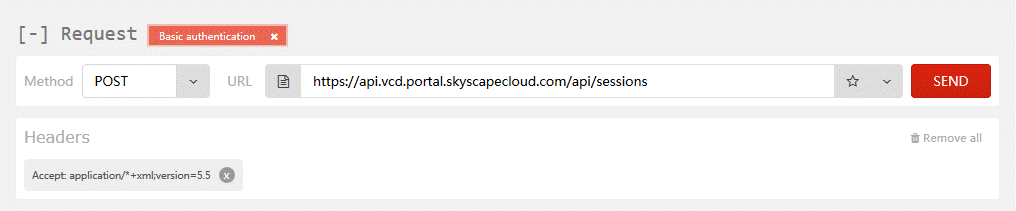
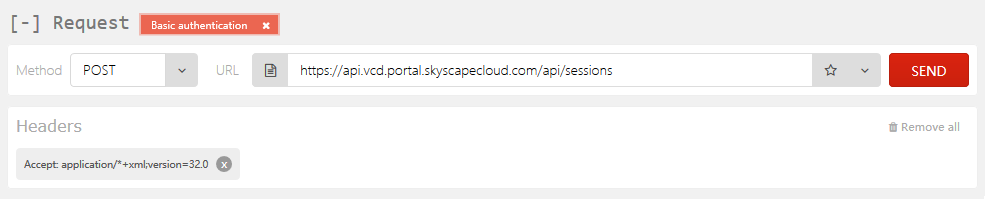
commit - not yet finished

diff --git a/docs/articles/vmware/vmw-ref-vcd-97.html b/docs/articles/vmware/vmw-ref-vcd-97.html
@@ -1,0 +1,176 @@
+<!DOCTYPE html>
+<!--[if IE]><![endif]-->
+<html>
+  
+  <head>
+    <meta charset="utf-8">
+    <meta http-equiv="X-UA-Compatible" content="IE=edge,chrome=1">
+    <title>Preparing for vCloud Director 9.7 upgrade | UKCloud Ltd | UKCloud Knowledge Centre </title>
+    <meta name="viewport" content="width=device-width">
+    <meta name="title" content="Preparing for vCloud Director 9.7 upgrade | UKCloud Ltd | UKCloud Knowledge Centre ">
+    <meta name="generator" content="docfx 2.45.0.0">
+    
+    <link rel="shortcut icon" href="../../favicon.ico">
+    <link rel="stylesheet" href="../../styles/docfx.vendor.css">
+    <link rel="stylesheet" href="../../styles/docfx.css">
+    <link rel="stylesheet" href="../../styles/main.css">
+    <meta property="docfx:navrel" content="../../toc.html">
+    <meta property="docfx:tocrel" content="toc.html">
+    
+    <meta property="docfx:rel" content="../../">
+    
+  </head>
+  <body data-spy="scroll" data-target="#affix" data-offset="120">
+    <div id="wrapper">
+      <header>
+        
+        <nav id="autocollapse" class="navbar navbar-inverse ng-scope" role="navigation">
+          <div class="container-fluid">
+            <div class="navbar-margin-left">
+              <div class="navbar-header">
+                <button type="button" class="navbar-toggle" data-toggle="collapse" data-target="#navbar">
+                  <span class="sr-only">Toggle navigation</span>
+                  <span class="icon-bar"></span>
+                  <span class="icon-bar"></span>
+                  <span class="icon-bar"></span>
+                </button>
+                
+                <a class="navbar-brand" href="../../index.html">
+                  <img id="logo" class="svg" src="../../styles/assets/logo.png" srcset="../../styles/assets/logo@2x.png 2x" width="300" height="49" alt="">
+                </a>
+              </div>
+              <div class="collapse navbar-collapse" id="navbar">
+                <form class="navbar-form navbar-right" role="search" id="search">
+                  <div class="form-group">
+                    <input type="text" class="form-control" id="search-query" placeholder="Search" autocomplete="off">
+                  </div>
+                </form>
+              </div>
+            </div>
+          </div>
+        </nav>
+        
+        <div class="navbar-borderless subnav navbar navbar-default">
+          <div class="navbar-right subnav-margin-right">
+              <div class="contribution">
+                <ul class="nav">
+                  <li>
+                    <a href="https://github.com/UKCloud/documentation/blob/master/articles/vmware/vmw-ref-vcd-97.md/#L1" class="contribution-link">Improve this Doc</a>
+                  </li>
+                </ul>
+              </div>
+          </div>
+          <div class="hide-when-search subnav-margin-left" id="breadcrumb">
+            <ul class="breadcrumb">
+              <li></li>
+            </ul>
+          </div>
+        </div>
+      </header>
+      <div class="container body-content">
+        
+        <div id="search-results">
+          <div class="search-list"></div>
+          <div class="sr-items">
+            <p><i class="glyphicon glyphicon-refresh index-loading"></i></p>
+          </div>
+          <ul id="pagination"></ul>
+        </div>
+      </div>
+      <div role="main" class="container-fluid body-content hide-when-search">
+        
+        <div class="sidenav hide-when-search">
+          <a class="btn toc-toggle collapse" data-toggle="collapse" href="#sidetoggle" aria-expanded="false" aria-controls="sidetoggle">Show / Hide Table of Contents</a>
+          <div class="sidetoggle collapse" id="sidetoggle">
+            <div id="sidetoc"></div>
+          </div>
+        </div>
+        <div class="article row grid-right">
+          <div class="container-fluid">
+            <div class="row">
+              <div class="col-lg-10">
+                <article class="content wrap" id="_content" data-uid="">
+                  
+<h1 id="preparing-for-vcloud-director-97-upgrade">Preparing for vCloud Director 9.7 upgrade</h1>
+
+<h2 id="overview">Overview</h2>
+<p>Ahead of our upgrade to vCloud Director 9.7, there are some key points for you to consider as preparation for the upgrade.</p>
+<h2 id="upgrade-to-advanced-edge-gateways">Upgrade to advanced edge gateways</h2>
+<p>vCloud Director 9.7 supports only advanced edge gateways. In preparation for the upgrade, before 31 May 2019 you must convert any legacy standard edge gateways to advanced edge gateways. For more information, see <a href="https://docs.ukcloud.com/articles/vmware/vmw-how-convert-edge.md"><em>How to convert your edge to an advanced gateway</em></a>.</p>
+<div class="IMPORTANT">
+<h5>Important</h5>
+<p>The conversion process will cause the gateway to redeploy. Therefore, you should schedule the conversion during an outage window.</p>
+</div>
+<p>After 31 May 2019, UKCloud will convert any remaining standard edge gateways at our convenience.</p>
+<h2 id="sandbox-for-testing-vcloud-api">Sandbox for testing vCloud API</h2>
+<p>UKCloud provides sandboxes to enable you to test the next versions of the vCloud API so that you can prepare for vCloud Director upgrades. Our latest sandbox (<a href="https://vcd.latest.ukcloud.com/cloud/">https://vcd.latest.ukcloud.com/cloud/</a>) has been upgraded to vCloud Director 9.7. If you already have an account on a previous sandbox, you can continue to use this account in the 9.7 sandbox. If you haven't previously used one of our vCloud sandboxes, raise a Service Request via <a href="https://portal.skyscapecloud.com/support/ivanti">My Calls</a> on the UKCloud Portal to gain access.</p>
+<h2 id="changes-to-apis">Changes to APIs</h2>
+<p>vCloud Director 9.7 supports vCloud API version 32.0. For information the changes to the vCloud API for this version, see <a href="https://code.vmware.com/apis/553/doc/diff/index.html"><em>vCloud API Schema Differences</em></a>.</p>
+<p>vCloud Director 9.7 is the last release of vCloud Director to support vCloud API 20. The 20 version of the API is deprecated in this release and will not be supported in future releases.</p>
+<h2 id="powercli-supported-versions">PowerCLI supported versions</h2>
+<p>If you're using PowerCLI to interact with our vCloud Director instances, the minimum supported version is 11.0.0.</p>
+<h2 id="vcloud-director-97-new-features">vCloud Director 9.7 new features</h2>
+<p>We're currently evaluating the new features provided with vCloud Director 9.7 to determine which functionality is appropriate to make available on our platform. We'll provide more details of the new features that we plan to enable as this evaluation progresses.</p>
+<h2 id="feedback">Feedback</h2>
+<p>If you find an issue with this article, click <strong>Improve this Doc</strong> to suggest a change. If you have an idea for how we could improve any of our services, visit the <a href="https://community.ukcloud.com/ideas">Ideas</a> section of the <a href="https://community.ukcloud.com">UKCloud Community</a>.</p>
+
+
+                  <div class="row">
+                  </div>
+                </article>
+              </div>
+              
+              <div class="hidden-sm col-md-2" role="complementary">
+                <div class="sideaffix">
+                  <nav class="bs-docs-sidebar hidden-print hidden-xs hidden-sm affix" id="affix">
+                  <!-- <p><a class="back-to-top" href="#top">Back to top</a><p> -->
+                  </nav>
+                </div>
+              </div>
+            </div>
+          </div>
+        </div>
+      </div>
+      
+      <footer>
+        <div class="grad-bottom"></div>
+        <div class="footer">
+          <div class="container">
+            <span class="pull-right text-right">
+              Generated by <strong>DocFX</strong><br>
+              <a href="#top">Back to top</a>
+            </span>
+            <span>&copy <a href="http://ukcloud.com">UKCloud Ltd</a>, 2019. All Rights Reserved.<br><a href="https://ukcloud.com/legal">Privacy Policy. </a><a href="https://ukcloud.com/terms-and-conditions">Terms of Use. </a><a href="http://docs.ukcloud.com/articles/other/other-how-contribute-knowledge.html">Contribute. </a></span>
+          </div>
+        </div>
+      </footer>
+      
+      <div id="cookie-cta" style="display: none;" aria-hidden="true">
+        <div class="cookie-cta-inner container">
+          <div class="cookie-cta-text">
+            <p>
+              <strong>UKCloud Knowledge Centre</strong> uses cookies to ensure that we give you the best experience on our website. If you continue we assume that you consent to receive all cookies on this website.
+            </p>
+          </div>
+      
+          <div class="cookie-cta-action">
+            <button class="cookie-cta-close button button--small">Accept</button>
+          </div>
+        </div>
+      </div>    </div>
+    
+    <script type="text/javascript" src="../../styles/docfx.vendor.js"></script>
+    <script type="text/javascript" src="../../styles/docfx.js"></script>
+    <script type="text/javascript" src="../../styles/main.js"></script>
+    <script type="text/javascript" src="../../styles/highlight.js"></script>
+    
+    <!-- Global site tag (gtag.js) - Google Analytics -->
+    <script async="" src="https://www.googletagmanager.com/gtag/js?id=UA-57433193-6"></script>
+    <script>
+      window.dataLayer = window.dataLayer || [];
+      function gtag(){dataLayer.push(arguments);}
+      gtag('js', new Date());
+    
+      gtag('config', 'UA-57433193-6');
+    </script>  </body>
+</html>

diff --git a/articles/vmware/vmw-how-interact-vcd-api-powershell.md b/articles/vmware/vmw-how-interact-vcd-api-powershell.md
@@ -20,14 +20,9 @@ toc_mdlink: vmw-how-interact-vcd-api-powershell.md
 ## Pre Work
 
 ### Useful Links
+You can find the sched reference for version 32.0 of the vCloud API here:
 
-You can look up all of the different object types here:
-
-http://pubs.vmware.com/vcd-55/index.jsp#doc/index.html
-
-### Examples of all typed queries
-
-http://pubs.vmware.com/vcloud-api-1-5/wwhelp/wwhimpl/js/html/wwhelp.htm#href=api_prog/GUID-43DFF30E-391F-42DC-87B3-5923ABCEB366.html
+https://code.vmware.com/apis/553/vcloud
 
 ### PowerShell
 
@@ -39,9 +34,9 @@ If `PSVersion` is less than 3.0, you'll need to upgrade. The v4 package is avail
 
 ### Python
 
-You'll need to install Python 2.7: https://www.python.org/ftp/python/2.7.10/python-2.7.10.msi
+You'll need to install Python 2.7: https://www.python.org/downloads/release/python-2716/
 
-You'll then need to install the package: http://www.python-requests.org/en/latest/user/install/#install
+You'll then need to install the package: https://pypi.org/project/requests/
 
 ### Getting your credentials
 
@@ -57,13 +52,13 @@ For more detailed instructions, see [*How to access vCloud Director through the 
 
 ### PowerShell
 
-1. Copy and paste the following script into your PowerShell session:
+1. Copy and paste the following script into a .psm1 file:
 
-       $Global:SkyscapeURL = "https://api.vcd.portal.skyscapecloud.com/api"
+       $Global:SkyscapeURL = "https://<API URL from portal>/api"
 
        $Global:Authorization = ""
 
-       $Global:Accept = "application/*+xml;version=5.1"
+       $Global:Accept = "application/*+xml;version=32.0"
 
        $Global:xvCloudAuthorization = ""
 
@@ -101,15 +96,20 @@ For more detailed instructions, see [*How to access vCloud Director through the 
 
     You will now have two new functions available to you; `New-vCloudLogin` and `Get-vCloudRequest`.
 
-2. To log in enter:
+2. In a new Powershell window, run the below to import the file with the below
+
+        Import-Module <Path to .psm1 file>
+
+
+3. To log in enter:
 
        New-vCloudLogin –Username “myuser@org” –Password “yourportalpassword”
 
-3. Use the username that you copied from the Portal earlier and your Portal password. This will login to vCloud and add your authorisation header to a global variable for use in the next function:
+4. Use the username that you copied from the Portal earlier and your Portal password. This will login to vCloud and add your authorisation header to a global variable for use in the next function:
 
        $VMS = Get-vCloudRequest –EndPoint “query?type=vm”
 
-4. This will get the first 25 VMs in your Org and store them in `$VMS`, which you can inspect. Just enter `$vms` and see what you get.
+5. This will get the first 25 VMs in your Org and store them in `$VMS`, as an XML output which you can inspect, or export as you wish
 
 #### Other examples
 
@@ -129,11 +129,11 @@ For more detailed instructions, see [*How to access vCloud Director through the 
 
        import requests
 
-       SkyscapeURL = "https://api.vcd.portal.skyscapecloud.com/api"
+       SkyscapeURL = "https://<API URL from portal>/api"
 
        Authorization = ""
 
-       Accept = "application/*+xml;version=5.1"
+       Accept = "application/*+xml;version=32.0"
 
        xvCloudAuthorization = ""
 

diff --git a/articles/vmware/vmw-ref-vcd-97.md b/articles/vmware/vmw-ref-vcd-97.md
@@ -1,0 +1,53 @@
+---
+title: Preparing for vCloud Director 9.7 upgrade | UKCloud Ltd
+description: Outlines the steps required to prepare for the upcoming upgrade to vCloud Director 9.7
+services: vmware
+author: Sue Highmoor
+reviewer:
+lastreviewed: 
+toc_rootlink: Reference
+toc_sub1: 
+toc_sub2:
+toc_sub3:
+toc_sub4:
+toc_title: Preparing for vCloud Director 9.7 upgrade
+toc_fullpath: Reference/vmw-ref-vcd-97.md
+toc_mdlink: vmw-ref-vcd-97.md
+---
+
+# Preparing for vCloud Director 9.7 upgrade
+
+## Overview
+
+Ahead of our upgrade to vCloud Director 9.7, there are some key points for you to consider as preparation for the upgrade.
+
+## Upgrade to advanced edge gateways
+
+vCloud Director 9.7 supports only advanced edge gateways. In preparation for the upgrade, before 31 May 2019 you must convert any legacy standard edge gateways to advanced edge gateways. For more information, see [*How to convert your edge to an advanced gateway*](https://docs.ukcloud.com/articles/vmware/vmw-how-convert-edge.md).
+
+> [!IMPORTANT]
+> The conversion process will cause the gateway to redeploy. Therefore, you should schedule the conversion during an outage window.
+
+After 31 May 2019, UKCloud will convert any remaining standard edge gateways at our convenience.
+
+## Sandbox for testing vCloud API
+
+UKCloud provides sandboxes to enable you to test the next versions of the vCloud API so that you can prepare for vCloud Director upgrades. Our latest sandbox (<https://vcd.latest.ukcloud.com/cloud/>) has been upgraded to vCloud Director 9.7. If you already have an account on a previous sandbox, you can continue to use this account in the 9.7 sandbox. If you haven't previously used one of our vCloud sandboxes, raise a Service Request via [My Calls](https://portal.skyscapecloud.com/support/ivanti) on the UKCloud Portal to gain access.
+
+## Changes to APIs
+
+vCloud Director 9.7 supports vCloud API version 32.0. For information the changes to the vCloud API for this version, see [*vCloud API Schema Differences*](https://code.vmware.com/apis/553/doc/diff/index.html).
+
+vCloud Director 9.7 is the last release of vCloud Director to support vCloud API 20. The 20 version of the API is deprecated in this release and will not be supported in future releases.
+
+## PowerCLI supported versions
+
+If you're using PowerCLI to interact with our vCloud Director instances, the minimum supported version is 11.0.0.
+
+## vCloud Director 9.7 new features
+
+We're currently evaluating the new features provided with vCloud Director 9.7 to determine which functionality is appropriate to make available on our platform. We'll provide more details of the new features that we plan to enable as this evaluation progresses.
+
+## Feedback
+
+If you find an issue with this article, click **Improve this Doc** to suggest a change. If you have an idea for how we could improve any of our services, visit the [Ideas](https://community.ukcloud.com/ideas) section of the [UKCloud Community](https://community.ukcloud.com).

diff --git a/articles/vmware/vmw-how-access-vcloud-api.md b/articles/vmware/vmw-how-access-vcloud-api.md
@@ -3,8 +3,8 @@ title: How to access vCloud Director through the vCloud API | UKCloud Ltd
 description: Describes how to get started with the vCloud API
 services: vmware
 author: Sue Highmoor
-reviewer: gsmith
-lastreviewed: 21/10/2019 15:30:00
+reviewer: Dylan Coombes
+lastreviewed: 5/11/2019 13:30:00
 
 toc_rootlink: How To
 toc_sub1:
